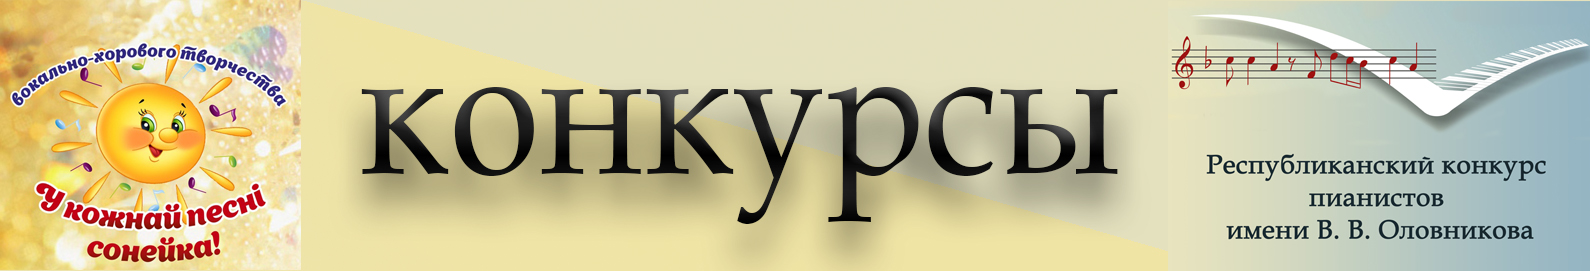
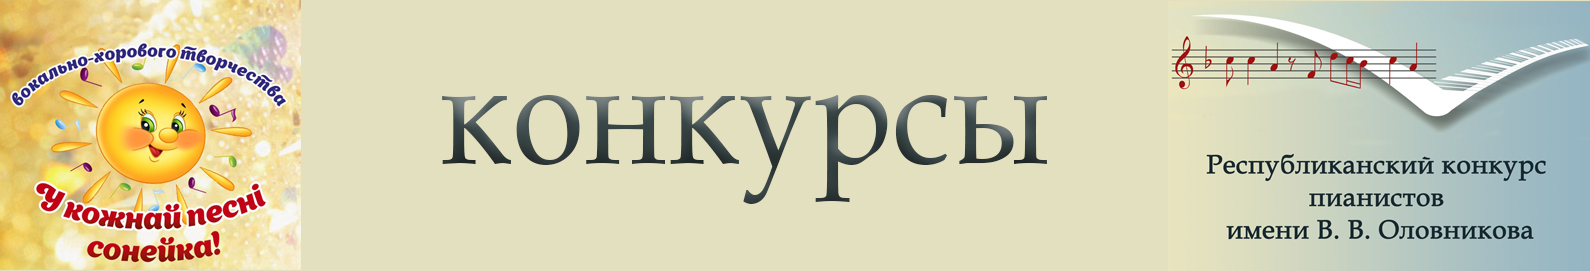
замена заголовка архив

diff --git a/arxiv/arxiv.htm b/arxiv/arxiv.htm
@@ -25,7 +25,7 @@
     <body>
     <div class="header">
       <p>
-        <img src="konkyrs.jpg" width="100%" />
+        <img src="Konkyrs.jpg" width="100%" />
       </p>
     </div>
     <div class="container">               
